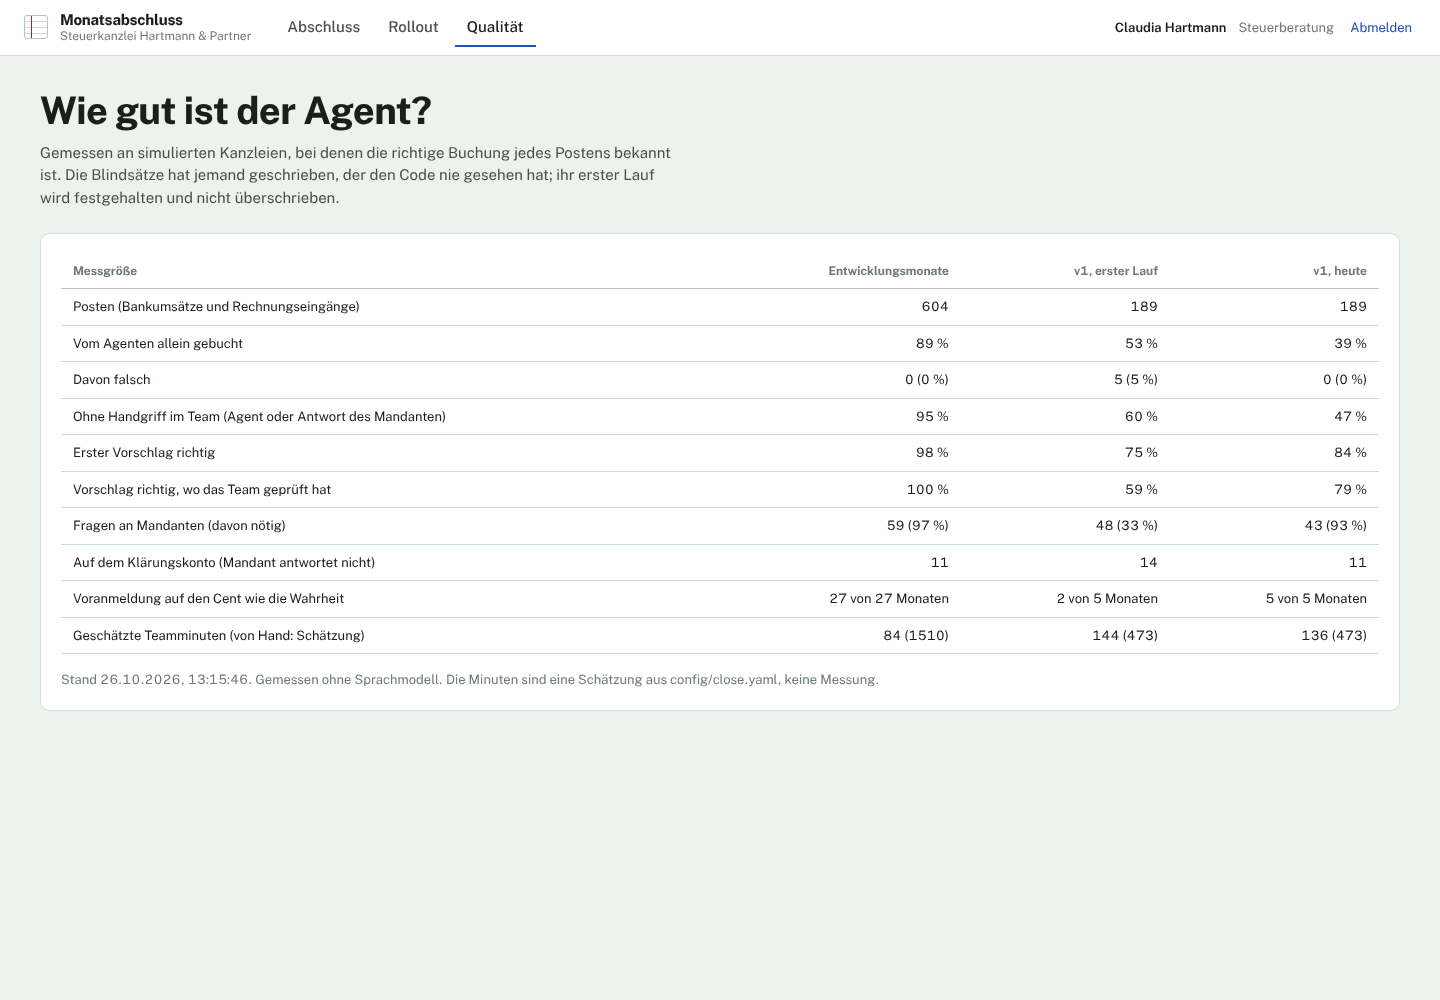
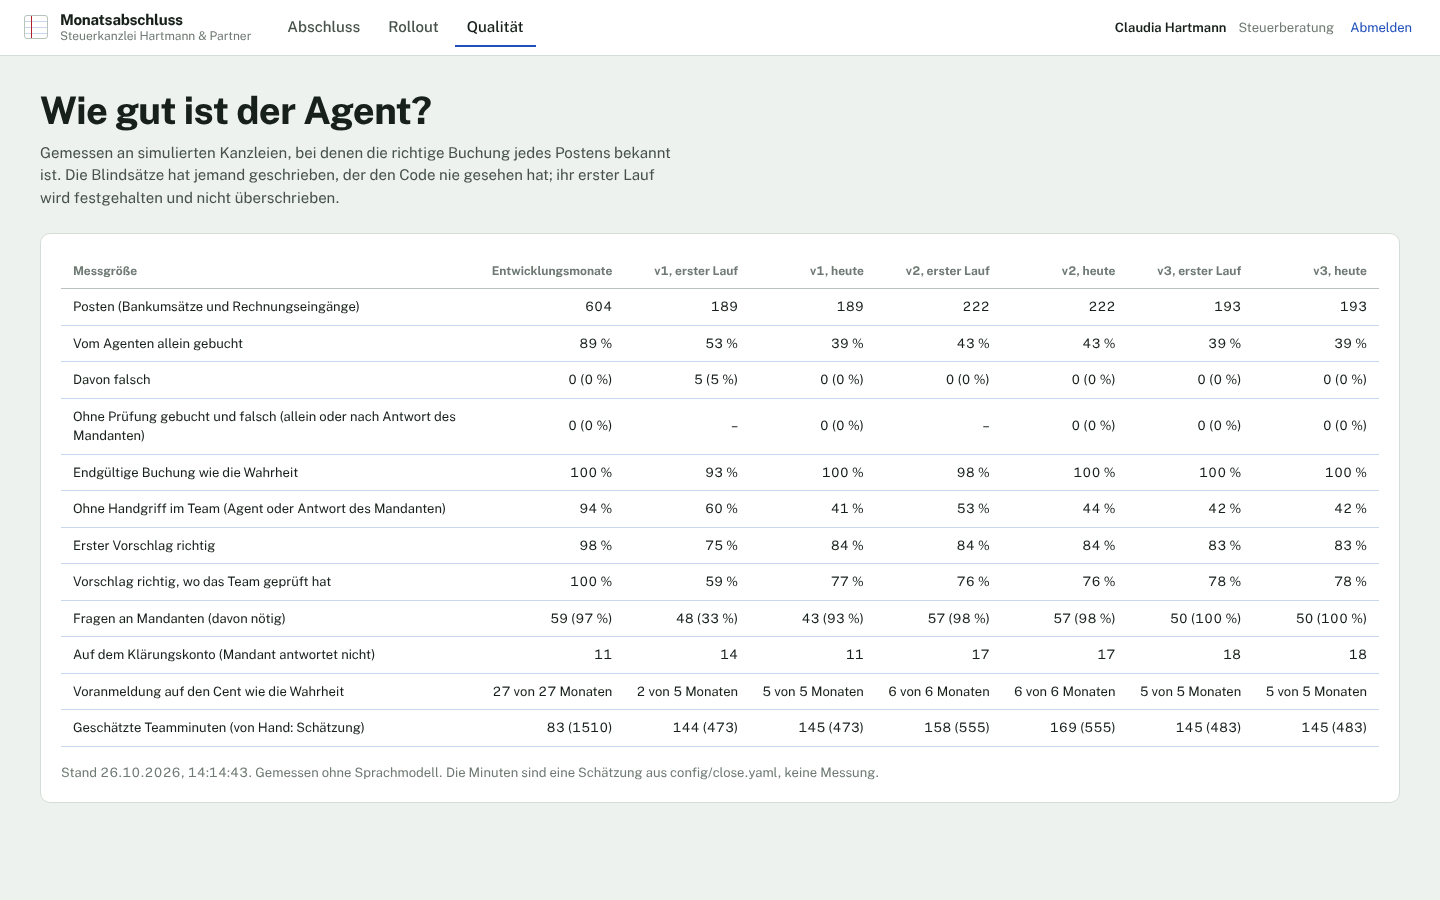
Record blind set v3's first run: nothing booked without staff was wrong
193 items in 5 client months: 39.4 % booked by the agent alone, 0 wrong; 0 of 5 bookings after a
client's answer wrong; every final booking matches the answer key; 50 of 50 questions needed;
VAT exact 5 of 5; all months signed off. Recorded once; the gate passes.

- README, ADRs and the quality page report bookings nobody looked at and final correctness
- CI evaluates dev, v1, v2 and v3

Claude-Session: https://claude.ai/code/session_01UwvC3ThniRazKvkA62GtYT

diff --git a/web/src/features/quality/QualityPage.tsx b/web/src/features/quality/QualityPage.tsx
@@ -11,6 +11,9 @@ type Metrics = Record<string, unknown> & {
   booked_automatically_share: number;
   automatic_wrong: number;
   automatic_wrong_share: number;
+  no_staff_wrong?: number;
+  no_staff_wrong_share?: number;
+  final_right: number;
   no_staff_touch_share: number;
   first_proposal_right: number;
   review_proposal_right: number;
@@ -42,6 +45,15 @@ const ROWS: { key: keyof Metrics; label: string; fmt: (m: Metrics) => string }[]
     label: "Davon falsch",
     fmt: (m) => `${m.automatic_wrong} (${percent(m.automatic_wrong_share)})`,
   },
+  {
+    key: "no_staff_wrong",
+    label: "Ohne Prüfung gebucht und falsch (allein oder nach Antwort des Mandanten)",
+    fmt: (m) =>
+      m.no_staff_wrong === undefined
+        ? "nicht gemessen"
+        : `${m.no_staff_wrong} (${percent(m.no_staff_wrong_share ?? 0)})`,
+  },
+  { key: "final_right", label: "Endgültige Buchung wie die Wahrheit", fmt: (m) => percent(m.final_right) },
   {
     key: "no_staff_touch_share",
     label: "Ohne Handgriff im Team (Agent oder Antwort des Mandanten)",

diff --git a/README.md b/README.md
@@ -19,27 +19,39 @@ client, reviewer and advisor, and every booking and every VAT Kennzahl is compar
 The blind sets were written by someone who never saw the code; a set's first run is recorded once and
 never rewritten. Without a language model.
 
-| | Development months | Blind v1, first run | Blind v1, after study | **Blind v2, first run** |
+| | Development months | Blind v1, first run | Blind v2, first run | **Blind v3, first run** |
 | --- | ---: | ---: | ---: | ---: |
-| Items (payments and invoices) | 604 | 189 | 189 | **222** |
-| Booked by the agent alone | 89.2 % | 52.9 % | 38.6 % | **42.8 %** |
+| Items (payments and invoices) | 604 | 189 | 222 | **193** |
+| Booked by the agent alone | 89.2 % | 52.9 % | 42.8 % | **39.4 %** |
 | … of which wrong | 0 | 5 | 0 | **0** |
-| No staff action (agent or client answer) | 94.9 % | 60.3 % | 47.1 % | **53.2 %** |
-| First proposal right | 98.2 % | 75.1 % | 83.6 % | **83.8 %** |
-| Questions to clients that were needed | 96.6 % | 33.3 % | 93.0 % | **98.2 %** |
-| VAT return exact to the cent | 27 / 27 | 2 / 5 | 5 / 5 | **6 / 6** |
-| Months signed off | 27 / 27 | 4 / 5 | 5 / 5 | **6 / 6** |
+| Booked after a client's answer, nobody looked: wrong | 0 | n/a | 5 of 23 | **0 of 5** |
+| No staff action (agent or client answer) | 93.7 % | 60.3 % | 53.2 % | **42.0 %** |
+| First proposal right | 98.2 % | 75.1 % | 83.8 % | **82.9 %** |
+| Final bookings matching the answer key | 100 % | 93.1 % | 97.6 % | **100 %** |
+| Questions to clients that were needed | 96.6 % | 33.3 % | 98.2 % | **100 %** |
+| VAT return exact to the cent | 27 / 27 | 2 / 5 | 6 / 6 | **5 / 5** |
+| Months signed off | 27 / 27 | 4 / 5 | 6 / 6 | **5 / 5** |
 
-What this says: on firms it has never seen, the agent books less on its own instead of booking wrongly,
-because the threshold is set on a bound (at most 1 % wrong at 95 % confidence, [ADR 4](docs/adr/0004-when-the-agent-books-alone.md))
-and rules stop anything risky. Blind v1 found real gaps (reverse charge for foreign services without a
-rate, an EU sale without the customer's VAT id, double bookings from several answers); they were fixed
-and v1 became a regression set. v2 was written after that and ran once: no wrong automatic booking and
-every VAT return exact. 97.6 % of v2's final bookings match the answer key line for line; the rest
-differ in the expense account, not in the VAT. Staff minutes are an estimate from `config/close.yaml`
-(about 158 against 555 by hand for v2), not a measurement.
+On firms it has never seen, the agent books less on its own instead of booking wrongly: the threshold
+is set on a bound (at most 1 % wrong at 95 % confidence, [ADR 4](docs/adr/0004-when-the-agent-books-alone.md))
+and rules stop anything risky. Each blind set found something, and each was studied only after its
+first run was recorded:
 
-`reports/evaluation.json` has every number; `reports/blind/*/FIRST_RUN.json` the first runs.
+- **v1** found tax gaps: reverse charge for foreign services invoiced without a rate, an EU sale without
+  the customer's VAT id, and double bookings when a client answered twice. Fixed; v1 became a
+  regression set.
+- **v2** had no wrong automatic booking and every VAT return exact, but 5 of 23 items booked after a
+  client's answer had the wrong expense family: the answer brought a receipt, and the engine treated
+  that as settling what the payment was. Now an answer decides only the question asked, and the
+  evaluation and release gate count every booking nobody looked at. v2 became a regression set.
+- **v3**, written after that fix, ran once: nothing booked without staff was wrong, every final booking
+  matches the answer key, every question asked was needed, every VAT return exact.
+
+Today all three blind sets and the development months run at 0 wrong bookings without staff and 100 %
+final bookings right. Staff minutes are an estimate from `config/close.yaml` (145 against 483 by hand
+for v3), not a measurement.
+
+`reports/evaluation.json` has every number for today's code; `reports/blind/*/FIRST_RUN.json` the first runs, as recorded.
 
 ## What it does
 
@@ -112,9 +124,9 @@ cd ../web && npm ci && npm run dev                # http://localhost:5173
 Tests and evaluation:
 
 ```bash
-cd backend && ruff check src tests && mypy && pytest -q            # 67 tests, Postgres needed
+cd backend && ruff check src tests && mypy && pytest -q            # 68 tests, Postgres needed
 cd web && npm run lint && npm run typecheck && npm test            # 46 component and flow tests
-python -m kanzlei_sim evaluate --sets dev,v1,v2 && python -m kanzlei_sim gate
+python -m kanzlei_sim evaluate --sets dev,v1,v2,v3 && python -m kanzlei_sim gate
 cd web && E2E_LINKS=../backend/.demo-links.json npx playwright test   # desktop and phone
 python -m kanzlei_sim train                                         # classifier and decision model
 ```

diff --git a/docs/adr/0005-evaluation.md b/docs/adr/0005-evaluation.md
@@ -22,4 +22,8 @@ Real client data cannot be used to develop this, and a demo on hand-picked examp
 - v1 first run: 5 of 100 automatic bookings wrong, VAT exact in 2 of 5 months. Studied, fixed, now a
   regression set: 0 wrong, 5 of 5 exact.
 - v2 first run (after those fixes, unseen): 0 of 95 automatic bookings wrong, VAT exact in 6 of 6
-  months, all months signed off.
+  months, but 5 of 23 bookings made after a client's answer had the wrong family. Studied: an answer
+  now decides only the question asked, and the gate bounds every booking nobody looked at. Now a
+  regression set.
+- v3 first run (after that fix, unseen): 0 wrong bookings without staff, every final booking right,
+  VAT exact in 5 of 5 months.

diff --git a/AGENTS.md b/AGENTS.md
@@ -5,7 +5,7 @@ Fast feedback:
 - `cd backend && ruff check src tests && ruff format --check src tests && mypy && pytest -q`. The db
   tests need PostgreSQL: `KANZLEI_TEST_ADMIN_URL`, default `postgresql://postgres:postgres@localhost:5432/postgres`.
 - `cd web && npm run lint && npm run typecheck && npm test`.
-- `python -m kanzlei_sim evaluate --sets dev,v1,v2 && python -m kanzlei_sim gate` (about ten minutes),
+- `python -m kanzlei_sim evaluate --sets dev,v1,v2,v3 && python -m kanzlei_sim gate` (about ten minutes),
   then `python -m kanzlei_sim seed --reset --links .demo-links.json`, the API, `npm run preview` and
   `npx playwright test` with `E2E_LINKS`.
 

diff --git a/docs/adr/0004-when-the-agent-books-alone.md b/docs/adr/0004-when-the-agent-books-alone.md
@@ -23,4 +23,6 @@ before the agent sees a new client, not hoped for.
 
 ## Consequences
 - On unfamiliar firms the agent books less on its own (39–43 % on the blind sets against 89 % on the
-  development months) rather than more wrongly: both blind sets have 0 wrong automatic bookings today.
+  development months) rather than more wrongly: all blind sets have 0 wrong automatic bookings today.
+- A client's answer settles only the question it answers; a booking made after it goes through the
+  same checks. The gate counts both kinds of booking nobody looked at.
